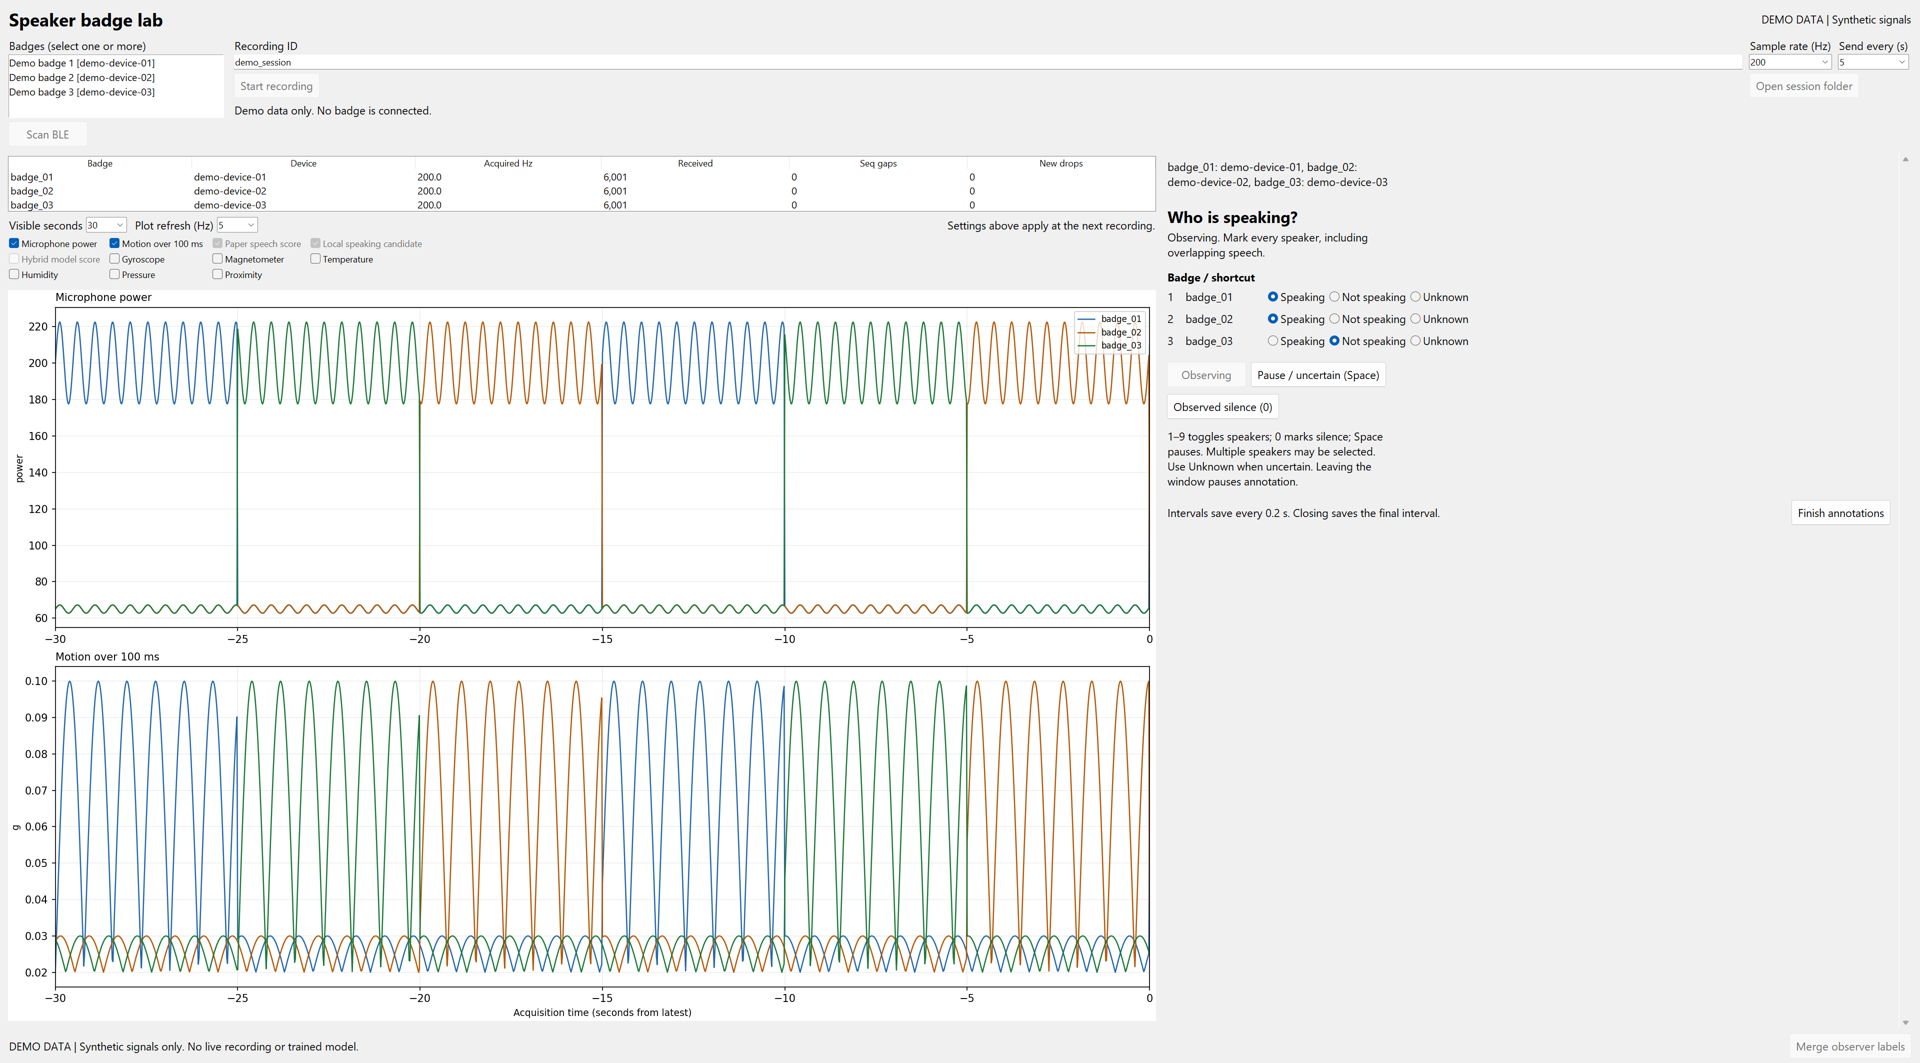
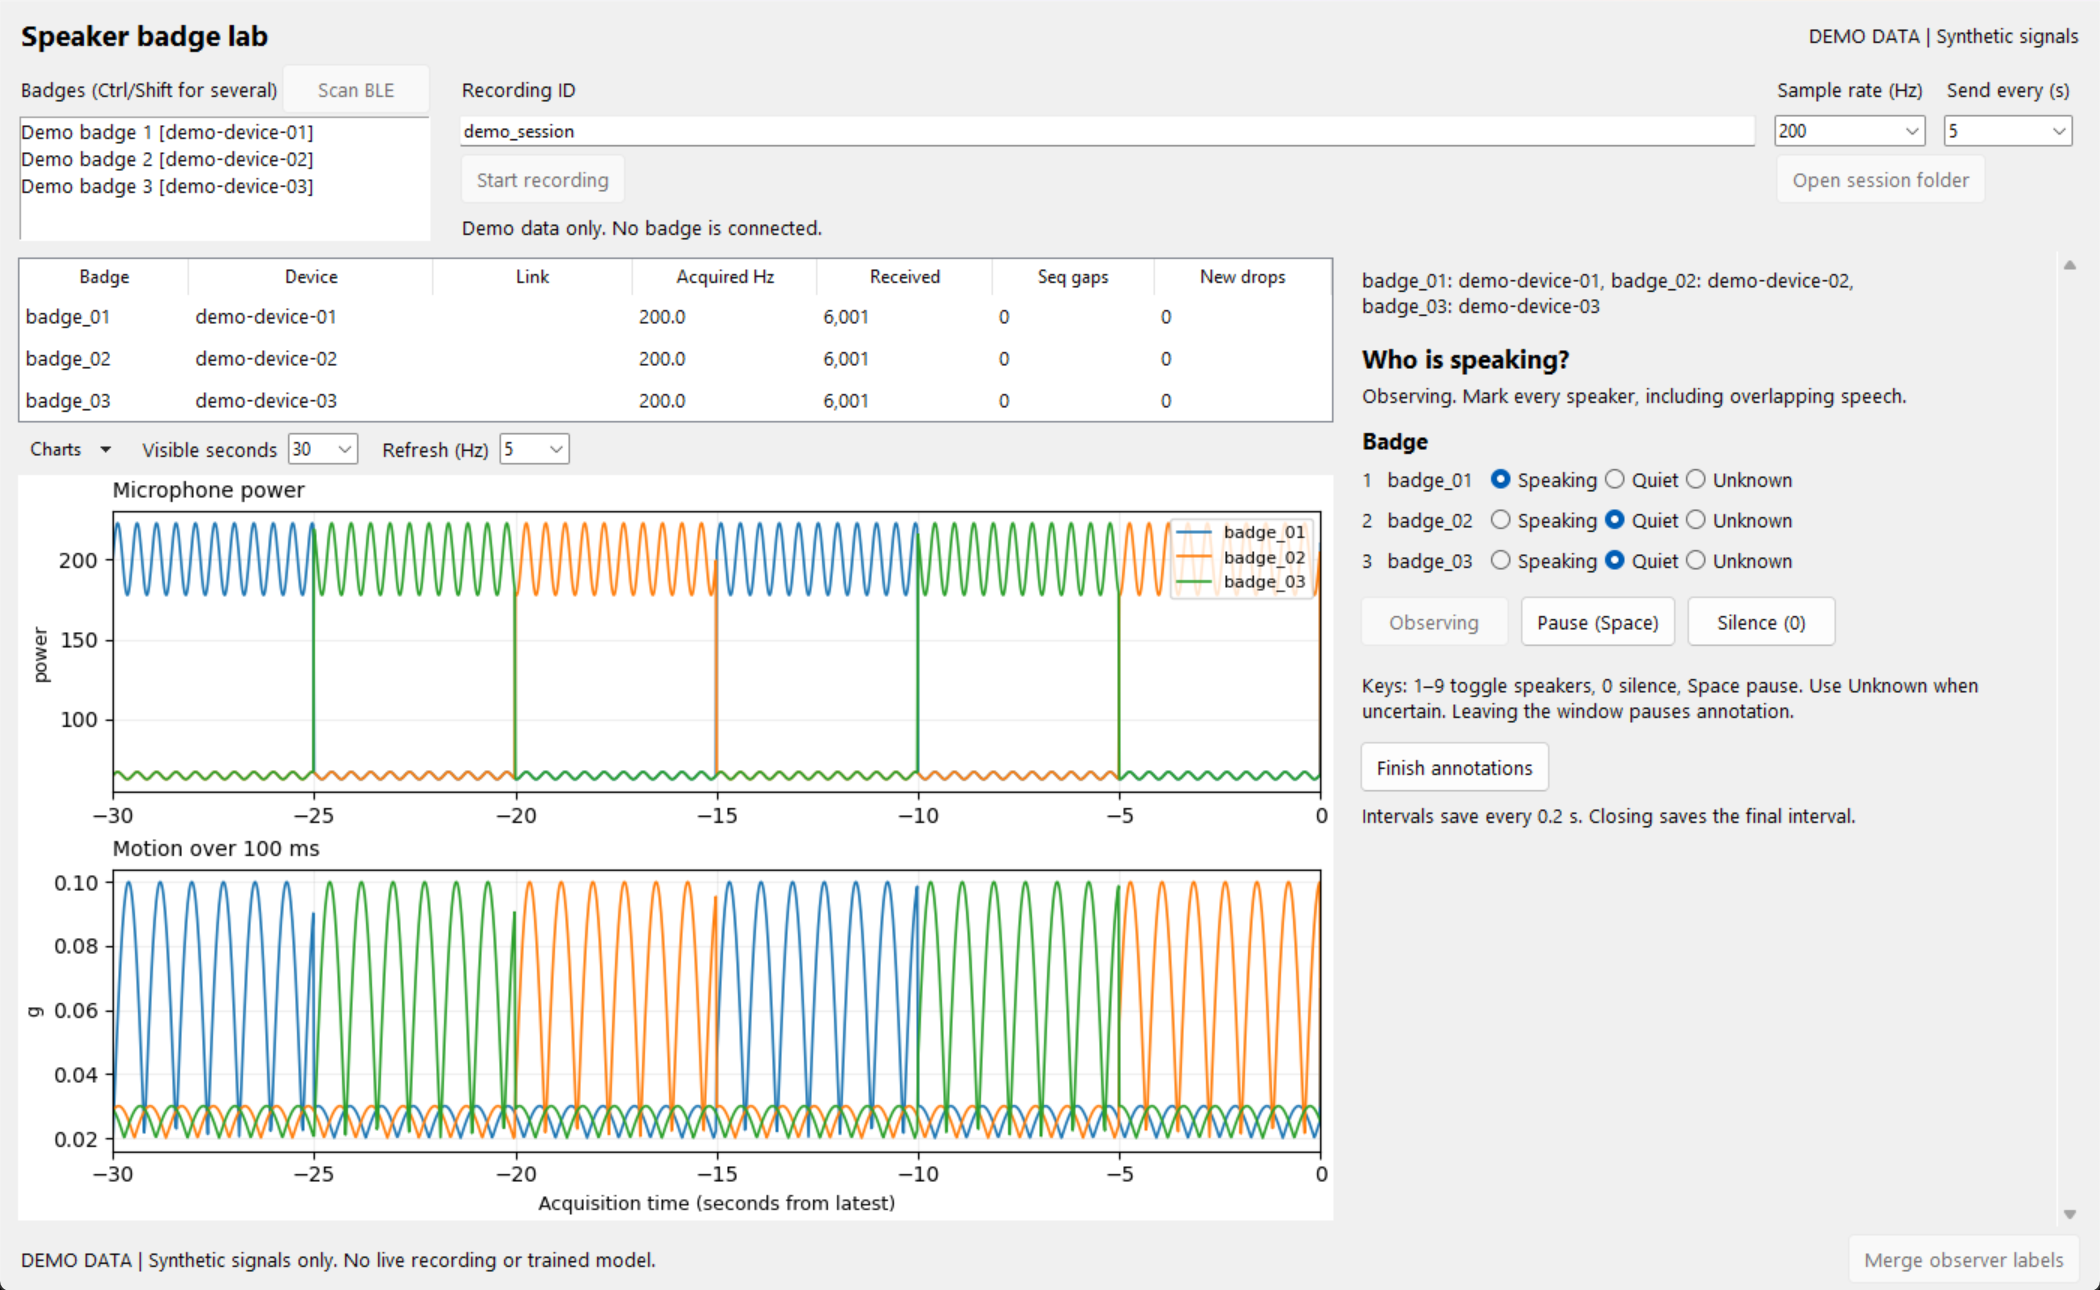
feat: fit live plots and labeling panel in a normal-sized window

diff --git a/TinyML_Speaker/viewer.py b/TinyML_Speaker/viewer.py
@@ -109,9 +109,10 @@ class SpeakerViewer:
         self.status = tk.StringVar(value='Demo data only. No badge is connected.' if demo else 'Scan for badges, select devices, then start a recording.')
         self.saved = tk.StringVar(value='Every received sample is saved. Plotting uses a bounded, thinned history.')
         root.title('Speaker badge lab' + (' | DEMO DATA' if demo else ''))
-        root.geometry('1480x900')
-        root.minsize(1200, 740)
-        root.state('zoomed')
+        width = min(1400, int(root.winfo_screenwidth() * .9))
+        height = min(860, int(root.winfo_screenheight() * .85))
+        root.geometry(f'{width}x{height}')
+        root.minsize(960, 600)
         style = ttk.Style(root)
         style.configure('TLabel', font=('Segoe UI', 10))
         style.configure('TButton', font=('Segoe UI', 10), padding=(8, 5))
@@ -124,17 +125,19 @@ class SpeakerViewer:
             self.load_demo()
 
     def build_ui(self) -> None:
-        header = ttk.Frame(self.root, padding=(16, 12, 16, 6))
+        header = ttk.Frame(self.root, padding=(12, 8, 12, 2))
         header.pack(fill='x')
-        ttk.Label(header, text='Speaker badge lab', font=('Segoe UI', 18, 'bold')).pack(side='left')
+        ttk.Label(header, text='Speaker badge lab', font=('Segoe UI', 14, 'bold')).pack(side='left')
         ttk.Label(header, text='DEMO DATA | Synthetic signals' if self.demo else 'High-rate acquisition | Bulk BLE | Human reference').pack(side='right')
-        controls = ttk.Frame(self.root, padding=(16, 4, 16, 10))
+        controls = ttk.Frame(self.root, padding=(12, 2, 12, 6))
         controls.pack(fill='x')
-        ttk.Label(controls, text='Badges (select one or more)').grid(row=0, column=0, sticky='w')
-        self.device_list = tk.Listbox(controls, height=5, width=39, selectmode='extended', exportselection=False, font=('Segoe UI', 10))
+        badge_header = ttk.Frame(controls)
+        badge_header.grid(row=0, column=0, sticky='ew', padx=(0, 12))
+        ttk.Label(badge_header, text='Badges (Ctrl/Shift for several)').pack(side='left')
+        self.scan_button = ttk.Button(badge_header, text='Scan BLE', command=self.scan)
+        self.scan_button.pack(side='right')
+        self.device_list = tk.Listbox(controls, height=4, width=36, selectmode='extended', exportselection=False, font=('Segoe UI', 10))
         self.device_list.grid(row=1, column=0, rowspan=3, sticky='nsew', padx=(0, 12))
-        self.scan_button = ttk.Button(controls, text='Scan BLE', command=self.scan)
-        self.scan_button.grid(row=4, column=0, sticky='w', pady=(5, 0))
         self.inputs = []
         for column, (label, variable, values, width) in enumerate([
             ('Recording ID', self.session, None, 20), ('Sample rate (Hz)', self.rate, ['10', '50', '100', '200'], 8),
@@ -145,50 +148,51 @@ class SpeakerViewer:
             widget.grid(row=1, column=column, sticky='ew', padx=6)
             self.inputs.append(widget)
         self.capture_button = ttk.Button(controls, text='Start recording', command=self.toggle_capture)
-        self.capture_button.grid(row=2, column=1, sticky='w', padx=6, pady=6)
+        self.capture_button.grid(row=2, column=1, sticky='w', padx=6, pady=4)
         self.folder_button = ttk.Button(controls, text='Open session folder', command=self.open_folder, state='disabled')
         self.folder_button.grid(row=2, column=2, columnspan=2, sticky='w', padx=6)
-        ttk.Label(controls, textvariable=self.status, wraplength=690).grid(row=3, column=1, columnspan=3, sticky='w', padx=6)
+        status = ttk.Label(controls, textvariable=self.status)
+        status.grid(row=3, column=1, columnspan=3, sticky='ew', padx=6)
+        status.bind('<Configure>', lambda event: status.configure(wraplength=max(200, event.width)))
         controls.columnconfigure(1, weight=1)
         self.panes = ttk.PanedWindow(self.root, orient='horizontal')
-        self.panes.pack(fill='both', expand=True, padx=16)
+        self.panes.pack(fill='both', expand=True, padx=12)
         self.monitor_pane = ttk.Frame(self.panes, width=1, height=1)
-        self.reference_pane = ttk.Frame(self.panes, width=560, height=1)
+        self.reference_pane = ttk.Frame(self.panes, width=400, height=1)
         self.panes.add(self.monitor_pane, weight=3)
-        self.panes.add(self.reference_pane, weight=2)
-        ttk.Label(self.reference_pane, text='Observer labels become available once the badges connect.\n'
-                  'Prediction charts are hidden while the observer panel is open.', padding=24).pack(anchor='w')
+        self.panes.add(self.reference_pane, weight=1)
+        ttk.Label(self.reference_pane, text='Observer labels become available once the badges connect. '
+                  'Prediction charts are hidden while the observer panel is open.', wraplength=360, padding=16).pack(anchor='w')
         self.table = ttk.Treeview(self.monitor_pane, columns=COLUMNS, show='headings', height=3)
         for name, label, width in zip(COLUMNS, ['Badge', 'Device', 'Link', 'Acquired Hz', 'Received', 'Seq gaps', 'New drops',
-                                                'Candidate', 'Model'], [80, 150, 100, 90, 90, 75, 90, 100, 120]):
+                                                'Candidate', 'Model'], [70, 120, 90, 80, 75, 65, 75, 90, 100]):
             self.table.heading(name, text=label)
-            self.table.column(name, width=width, stretch=True)
-        self.table.pack(fill='x', pady=(8, 6))
+            self.table.column(name, width=width, minwidth=50, stretch=True)
+        self.table.pack(fill='x', pady=(4, 4))
         plot_controls = ttk.Frame(self.monitor_pane)
-        plot_controls.pack(fill='x', pady=4)
+        plot_controls.pack(fill='x', pady=2)
+        charts = ttk.Menubutton(plot_controls, text='Charts')
+        charts.pack(side='left', padx=(0, 14))
+        self.chart_menu = tk.Menu(charts, tearoff=False)
+        charts['menu'] = self.chart_menu
+        self.plot_vars = {}
+        for field, title, _, default in PLOTS:
+            self.plot_vars[field] = tk.BooleanVar(value=default)
+            self.chart_menu.add_checkbutton(label=title, variable=self.plot_vars[field], command=self.rebuild_plots)
         ttk.Label(plot_controls, text='Visible seconds').pack(side='left')
-        ttk.Combobox(plot_controls, textvariable=self.window, values=['10', '20', '30', '60'], width=5, state='readonly').pack(side='left', padx=(5, 14))
-        ttk.Label(plot_controls, text='Plot refresh (Hz)').pack(side='left')
-        ttk.Combobox(plot_controls, textvariable=self.refresh, values=['1', '2', '5', '10'], width=5, state='readonly').pack(side='left', padx=5)
-        ttk.Label(plot_controls, text='Settings above apply at the next recording.').pack(side='right')
-        selectors = ttk.Frame(self.monitor_pane)
-        selectors.pack(fill='x')
-        self.plot_vars, self.plot_checks = {}, {}
-        for i, (field, title, _, default) in enumerate(PLOTS):
-            variable = tk.BooleanVar(value=default)
-            self.plot_vars[field] = variable
-            self.plot_checks[field] = ttk.Checkbutton(selectors, text=title, variable=variable, command=self.rebuild_plots)
-            self.plot_checks[field].grid(row=i // 4, column=i % 4, sticky='w', padx=(0, 14))
+        ttk.Combobox(plot_controls, textvariable=self.window, values=['10', '20', '30', '60'], width=4, state='readonly').pack(side='left', padx=(5, 14))
+        ttk.Label(plot_controls, text='Refresh (Hz)').pack(side='left')
+        ttk.Combobox(plot_controls, textvariable=self.refresh, values=['1', '2', '5', '10'], width=4, state='readonly').pack(side='left', padx=5)
         plot_area = ttk.Frame(self.monitor_pane, width=1, height=1)
-        plot_area.pack(fill='both', expand=True, pady=8)
+        plot_area.pack(fill='both', expand=True, pady=4)
         plot_area.pack_propagate(False)
         self.figure = Figure(figsize=(10, 5), dpi=100, constrained_layout=True)
         self.canvas = FigureCanvasTkAgg(self.figure, plot_area)
-        self.canvas.get_tk_widget().pack(fill='both', expand=True, pady=8)
+        self.canvas.get_tk_widget().pack(fill='both', expand=True)
         self.rebuild_plots()
-        footer = ttk.Frame(self.root, padding=(16, 8))
+        footer = ttk.Frame(self.root, padding=(12, 4))
         footer.pack(fill='x')
-        ttk.Label(footer, textvariable=self.saved, wraplength=850).pack(side='left')
+        ttk.Label(footer, textvariable=self.saved).pack(side='left')
         self.merge_button = ttk.Button(footer, text='Merge observer labels', command=self.merge_labels, state='disabled')
         self.merge_button.pack(side='right')
         if self.demo:
@@ -210,7 +214,7 @@ class SpeakerViewer:
             axis.grid(True, alpha=.2)
             self.axes[field] = axis
         if not selected:
-            self.figure.text(.5, .5, 'Select a chart above', ha='center')
+            self.figure.text(.5, .5, 'Choose charts from the Charts menu', ha='center')
         self.canvas.draw_idle()
 
     def emit(self, kind: str, payload: dict) -> None:
@@ -288,8 +292,9 @@ class SpeakerViewer:
         # Keep observer labels independent of the predictions they will be used to evaluate.
         self.annotating = active
         self.table.configure(displaycolumns=[c for c in COLUMNS if c not in ['candidate', 'model']] if active else '#all')
-        for field in PREDICTIONS:
-            self.plot_checks[field].configure(state='disabled' if active else 'normal')
+        for index, (field, *_) in enumerate(PLOTS):
+            if field in PREDICTIONS:
+                self.chart_menu.entryconfigure(index, state='disabled' if active else 'normal')
         self.rebuild_plots()
         self.draw()
 
@@ -306,7 +311,7 @@ class SpeakerViewer:
         window = canvas.create_window(0, 0, window=content, anchor='nw')
         content.bind('<Configure>', lambda _: canvas.configure(scrollregion=canvas.bbox('all')))
         canvas.bind('<Configure>', lambda event: canvas.itemconfigure(window, width=event.width))
-        ttk.Label(content, text=mapping, wraplength=480, padding=(16, 12)).pack(anchor='w')
+        ttk.Label(content, text=mapping, wraplength=360, padding=(12, 8, 12, 0)).pack(anchor='w')
         self.observer = ObserverPanel(self.root, self.session_dir / 'reference.csv', self.session.get().strip(), badges,
                                       container=content, on_close=self.observer_closed)
         self.set_annotating(True)

diff --git a/TinyML_Speaker/observer.py b/TinyML_Speaker/observer.py
@@ -29,42 +29,65 @@ class ObserverPanel:
             root.minsize(760, 470)
             root.geometry(f'820x{max(500, 300 + 42 * len(badges))}')
         style = ttk.Style(root)
-        style.configure('TLabel', font=('Segoe UI', 11))
-        style.configure('TButton', font=('Segoe UI', 11), padding=(10, 7))
-        style.configure('TRadiobutton', font=('Segoe UI', 11), padding=(4, 3) if self.embedded else (8, 6))
-        body = self.body = ttk.Frame(container if container is not None else root, padding=16 if self.embedded else 24)
+        if self.embedded:
+            # The host window owns label and button styles; keep the panel compact beside the plots.
+            style.configure('TRadiobutton', font=('Segoe UI', 10), padding=(2, 2))
+        else:
+            style.configure('TLabel', font=('Segoe UI', 11))
+            style.configure('TButton', font=('Segoe UI', 11), padding=(10, 7))
+            style.configure('TRadiobutton', font=('Segoe UI', 11), padding=(8, 6))
+        compact = self.embedded
+        body = self.body = ttk.Frame(container if container is not None else root, padding=12 if compact else 24)
         body.pack(fill='both', expand=True)
-        ttk.Label(body, text='Who is speaking?', font=('Segoe UI', 16 if self.embedded else 20, 'bold')).pack(anchor='w')
-        if not self.embedded:
+        wrapped: list[ttk.Label] = []
+
+        def label(parent: tk.Widget, **options) -> ttk.Label:
+            widget = ttk.Label(parent, wraplength=750, **options)
+            wrapped.append(widget)
+            return widget
+
+        ttk.Label(body, text='Who is speaking?', font=('Segoe UI', 13 if compact else 20, 'bold')).pack(anchor='w')
+        if not compact:
             ttk.Label(body, text=f'Recording: {recording_id}').pack(anchor='w', pady=(4, 12))
         self.status = tk.StringVar(value='Paused. No speech or silence labels are being assigned.')
-        ttk.Label(body, textvariable=self.status, wraplength=480 if self.embedded else 750).pack(anchor='w', pady=(0, 16))
+        label(body, textvariable=self.status).pack(anchor='w', fill='x', pady=(0, 8 if compact else 16))
         table = ttk.Frame(body)
         table.pack(fill='x')
-        ttk.Label(table, text='Badge / shortcut', font=('Segoe UI', 11, 'bold')).grid(row=0, column=0, sticky='w', padx=(0, 20))
+        gap = 8 if compact else 20
+        ttk.Label(table, text='Badge' if compact else 'Badge / shortcut', font=('Segoe UI', 11, 'bold')).grid(
+            row=0, column=0, columnspan=2, sticky='w', padx=(0, gap))
+        choices = [('Speaking', 'active'), ('Quiet' if compact else 'Not speaking', 'not_active'), ('Unknown', 'unknown')]
         for i, badge in enumerate(badges, 1):
-            ttk.Label(table, text=f'{i}    {badge}').grid(row=i, column=0, sticky='w', padx=(0, 20))
-            for column, (text, value) in enumerate([('Speaking', 'active'), ('Not speaking', 'not_active'), ('Unknown', 'unknown')], 1):
+            ttk.Label(table, text=str(i)).grid(row=i, column=0, sticky='w', padx=(0, 6))
+            ttk.Label(table, text=badge).grid(row=i, column=1, sticky='w', padx=(0, gap))
+            for column, (text, value) in enumerate(choices, 2):
                 control = ttk.Radiobutton(table, text=text, value=value, variable=self.variables[badge],
                                           command=self.changed, state='disabled')
-                control.grid(row=i, column=column, sticky='w', pady=3)
+                control.grid(row=i, column=column, sticky='w', pady=2 if compact else 3)
                 self.controls.append(control)
         actions = ttk.Frame(body)
-        actions.pack(fill='x', pady=(20, 12))
-        self.start_button = ttk.Button(actions, text='Start observing (Enter)', command=self.start)
-        self.start_button.pack(side='left', padx=(0, 8))
-        ttk.Button(actions, text='Pause / uncertain (Space)', command=self.pause).pack(side='left')
-        ttk.Button(body, text='Observed silence (0)', command=self.silence).pack(anchor='w')
-        help_text = ('1–9 toggles speakers; 0 marks silence; Space pauses. Multiple speakers may be selected.\n'
-                     'Use Unknown when uncertain. Leaving the window pauses annotation.' if self.embedded else
+        actions.pack(fill='x', pady=(10, 6) if compact else (20, 12))
+        self.start_button = ttk.Button(actions, text='Start (Enter)' if compact else 'Start observing (Enter)', command=self.start)
+        pause = ttk.Button(actions, text='Pause (Space)' if compact else 'Pause / uncertain (Space)', command=self.pause)
+        silence = ttk.Button(actions if compact else body, text='Silence (0)' if compact else 'Observed silence (0)', command=self.silence)
+        self.start_button.pack(side='left', padx=(0, 6))
+        pause.pack(side='left', padx=(0, 6))
+        silence.pack(side='left') if compact else silence.pack(anchor='w')
+        help_text = ('Keys: 1–9 toggle speakers, 0 silence, Space pause. Use Unknown when uncertain. '
+                     'Leaving the window pauses annotation.' if compact else
                      '1–9 toggles a speaker. Multiple speakers may be selected.\n'
-                  'Start means you can observe every listed badge. Use Unknown for anyone you cannot judge.\n'
-                  'Switching to another window pauses annotation.')
-        ttk.Label(body, text=help_text, wraplength=480 if self.embedded else 750).pack(anchor='w', pady=(16, 12))
+                     'Start means you can observe every listed badge. Use Unknown for anyone you cannot judge.\n'
+                     'Switching to another window pauses annotation.')
+        label(body, text=help_text).pack(anchor='w', fill='x', pady=(8, 6) if compact else (16, 12))
         footer = ttk.Frame(body)
-        footer.pack(side='bottom', fill='x', pady=(8, 0))
-        ttk.Label(footer, text=f'Intervals save every {CHECKPOINT_MS / 1000:g} s. Closing saves the final interval.').pack(side='left')
-        ttk.Button(footer, text='Finish annotations' if self.embedded else 'Save and close', command=self.close).pack(side='right')
+        footer.pack(side='bottom', fill='x', pady=(4, 0))
+        ttk.Button(footer, text='Finish annotations' if compact else 'Save and close', command=self.close).pack(
+            side='top' if compact else 'right', anchor='w')
+        label(footer, text=f'Intervals save every {CHECKPOINT_MS / 1000:g} s. Closing saves the final interval.').pack(
+            side='top' if compact else 'left', anchor='w', pady=(4, 0) if compact else 0)
+        if compact:
+            body.bind('<Configure>', lambda event: [widget.configure(wraplength=max(160, event.width - 30))
+                                                    for widget in wrapped])
         self.bindings = {sequence: root.bind(sequence, callback, add='+') for sequence, callback in [
             ('<KeyPress>', self.key_down),
             ('<KeyRelease>', lambda event: self.pressed.discard(event.keysym)),

diff --git a/TinyML_Speaker/VIEWER.md b/TinyML_Speaker/VIEWER.md
@@ -38,7 +38,7 @@ validate sensor performance. The screenshots below use this mode.
    connected. A badge that fails three connection attempts is skipped and named
    in the status line; the rest keep recording. A badge that drops reconnects on
    its own. Mark it Unknown in the observer panel while it is reconnecting.
-4. Select sensor charts and adjust plot refresh or visible history as needed.
+4. Pick sensor charts from the **Charts** menu and adjust plot refresh or visible history as needed.
    Those controls affect drawing, not acquisition or CSV recording.
 5. Click **Stop and save** to stop the badge, drain its buffer, and disconnect.
    Closing during a capture requests this same drain before the window exits.
@@ -59,12 +59,12 @@ model-score chart has no valid score while the firmware reports -1.
 ## Make independent observer labels
 
 The observer panel sits beside the live plots, so raw sensor data stays visible
-while you annotate. Drag the divider to resize either side. While the panel is
+while you annotate. The layout fits a normal window, so full screen is not required. Drag the divider to resize either side. While the panel is
 open, the paper speech score, local candidate, and hybrid model charts and table
 columns are hidden, so labels stay independent of the predictions they will be
 used to evaluate. Click **Finish annotations** to show them again.
 
-Start observing explicitly, then mark speaking, not speaking, or unknown for each
+Start observing explicitly, then mark speaking, quiet (not speaking), or unknown for each
 wearer. Multiple speakers are supported. The keyboard shortcuts are the same as
 the standalone panel: 1–9 toggle speakers, 0 marks observed silence, and Space
 pauses. Leaving the window pauses annotation and keeps that time unknown.
